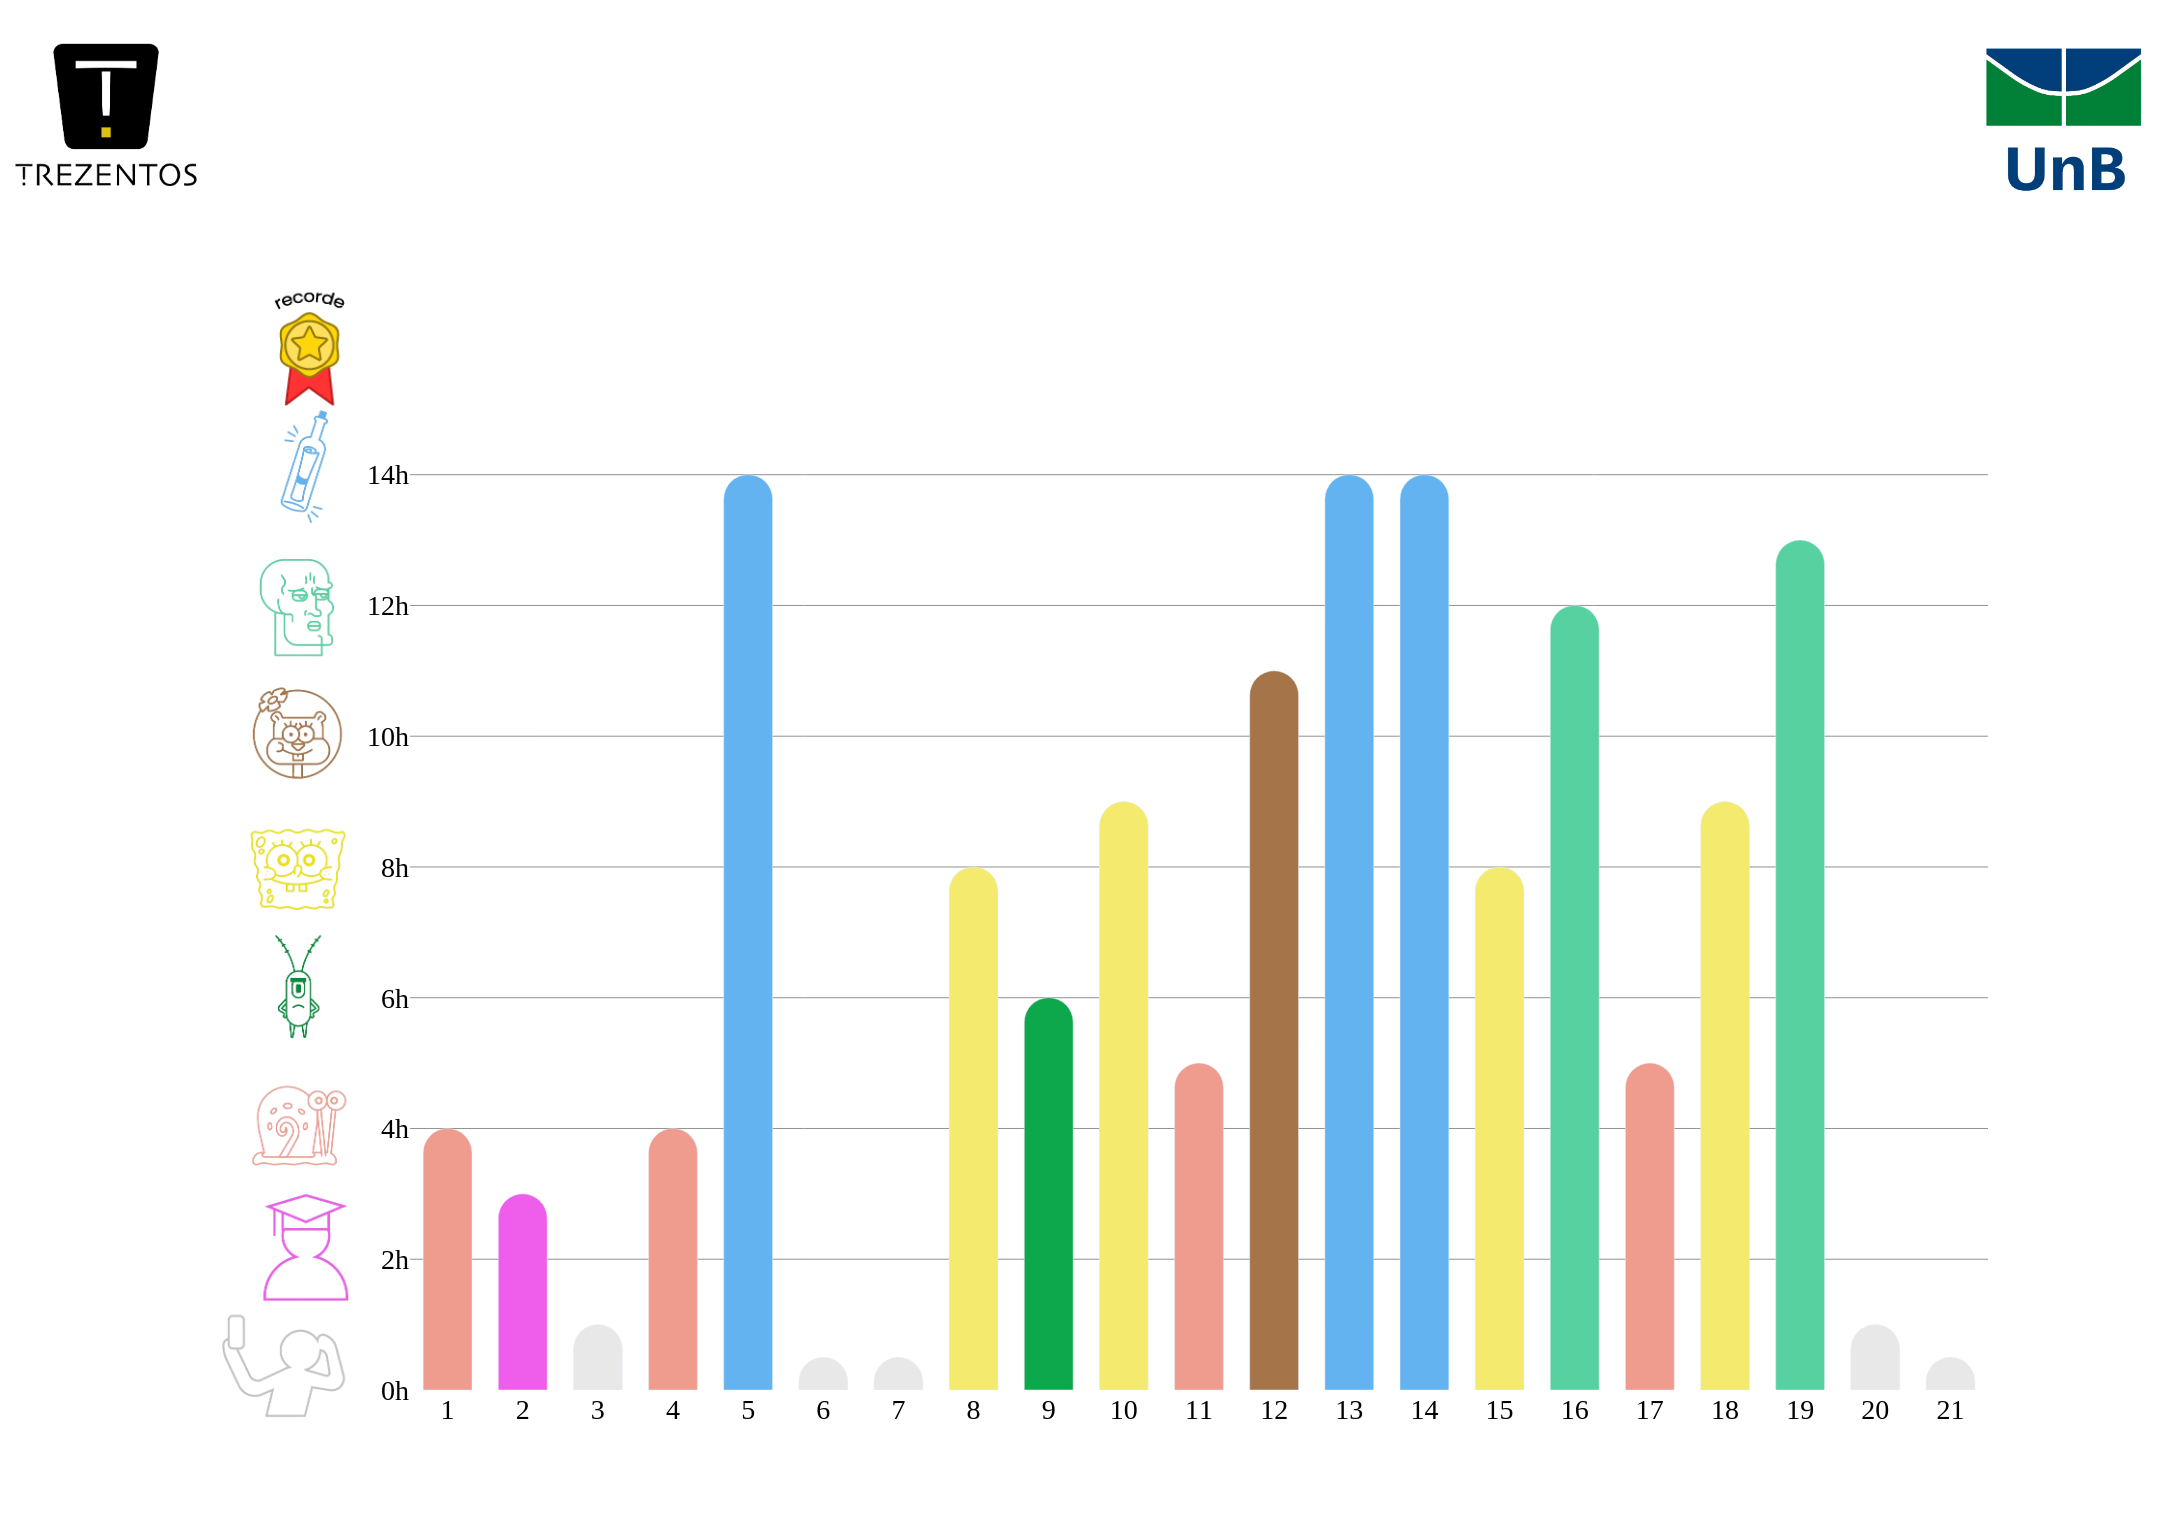
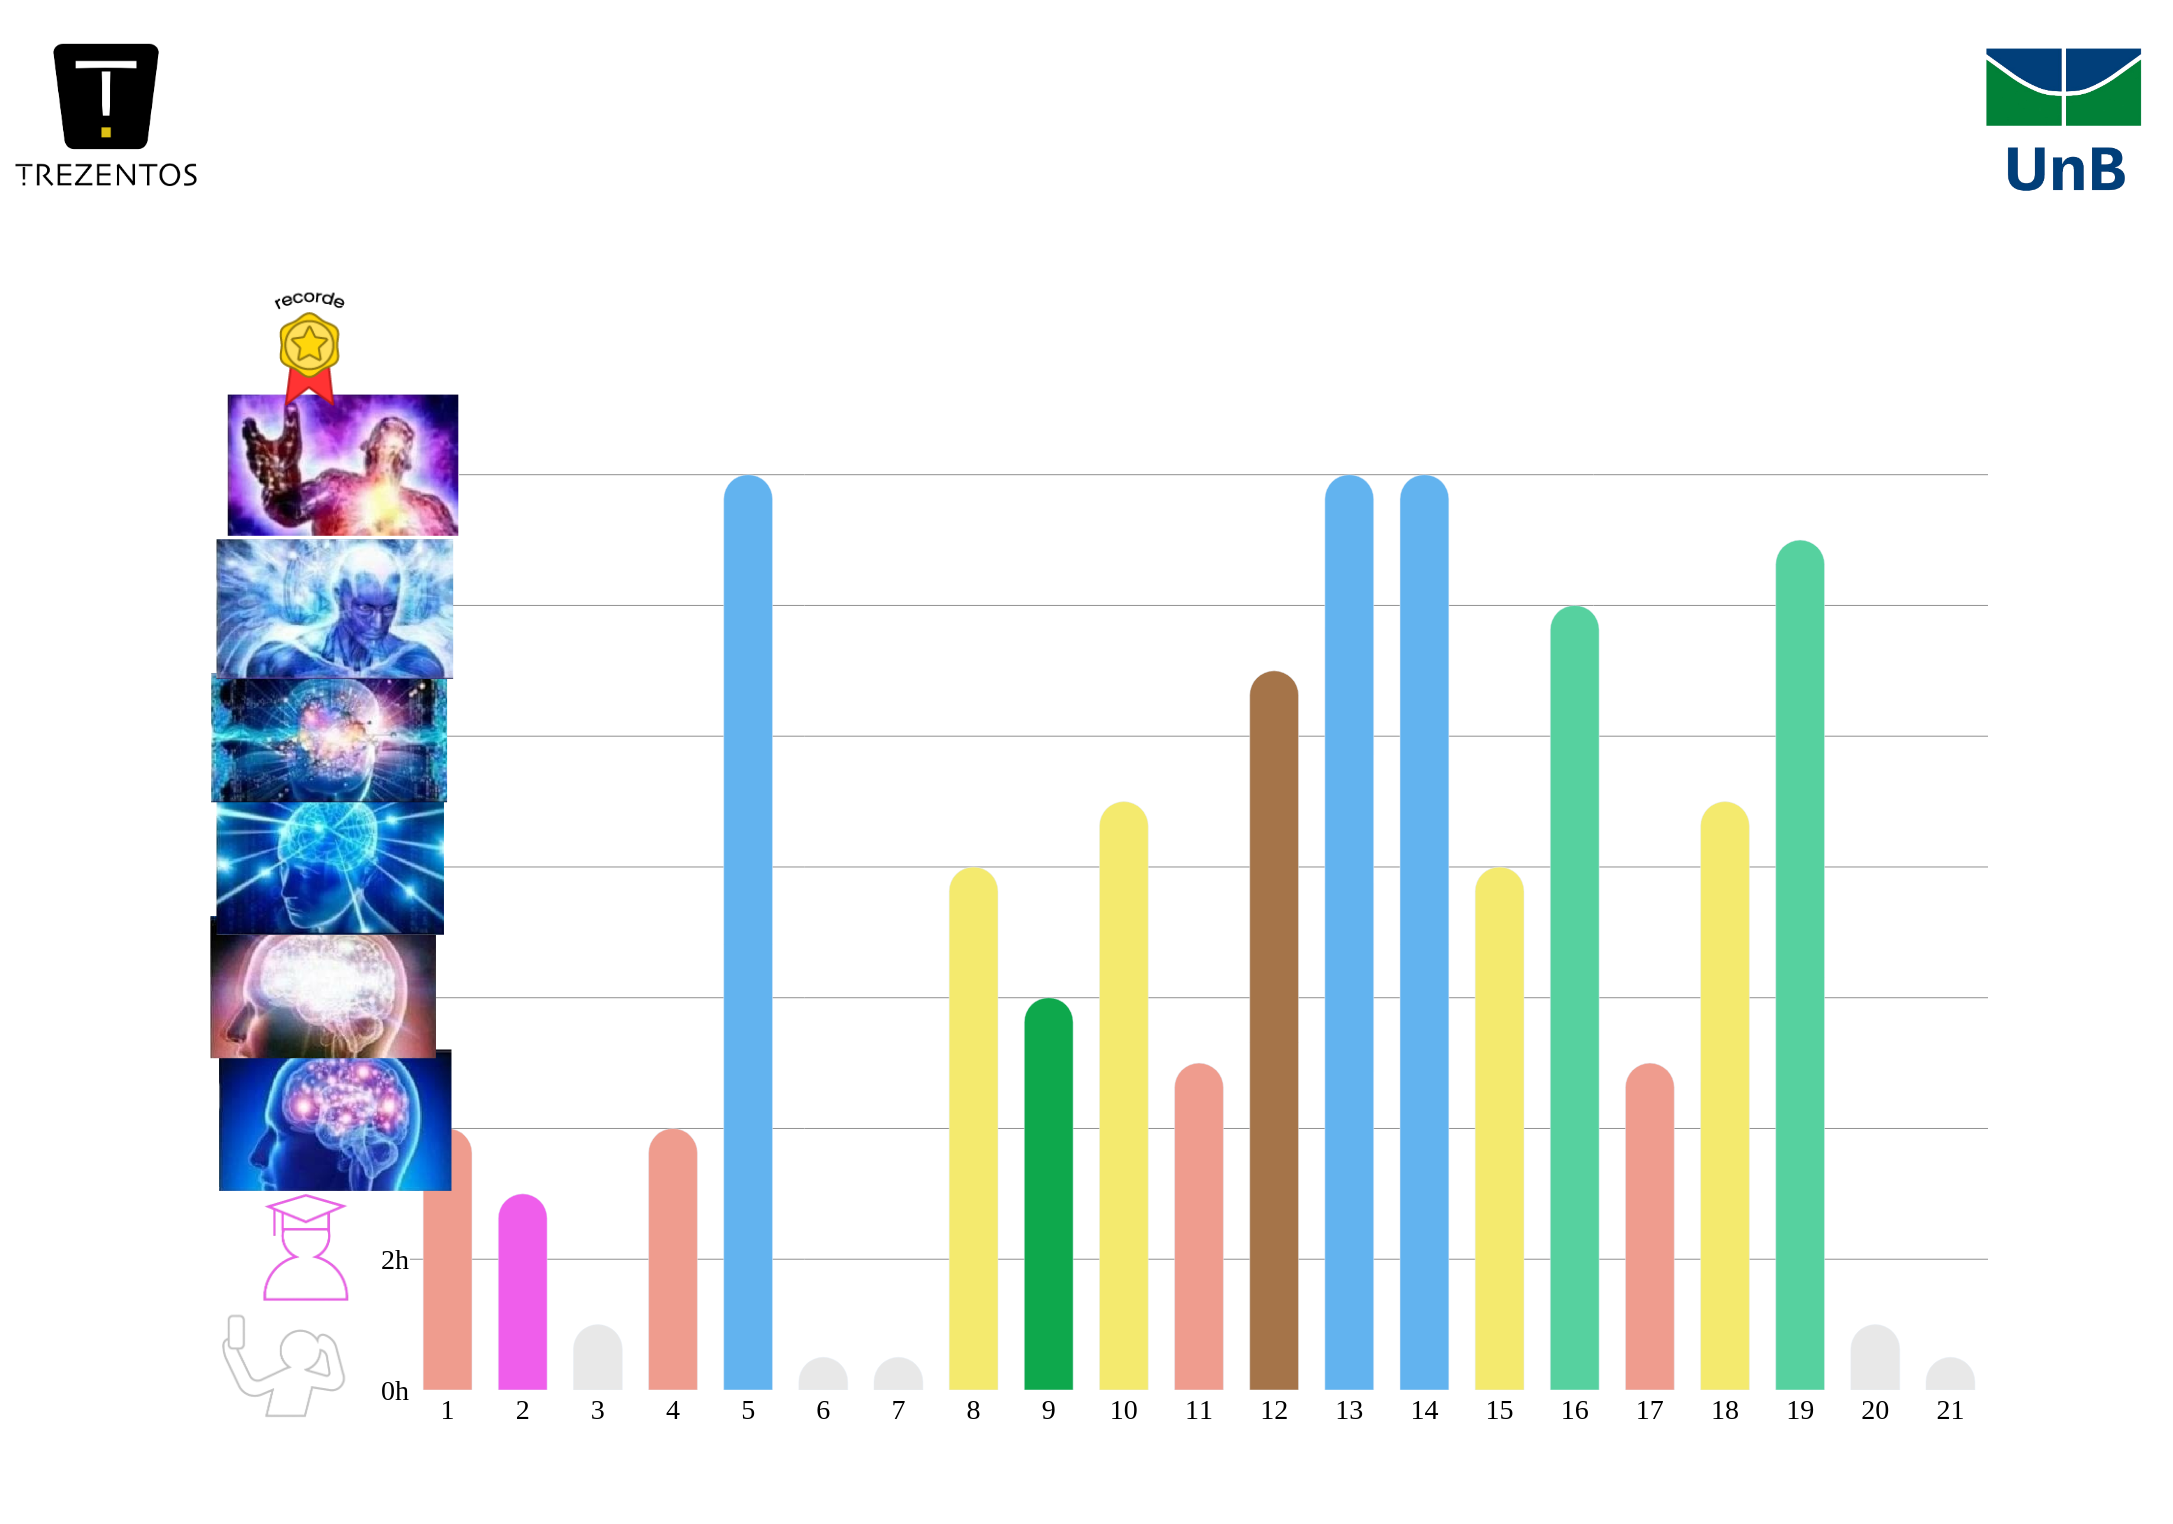
adicionando ultima versao

Changed region(s): [[0.0925, 0.2467, 0.2158, 0.8018]]

diff --git a/gerador_mente_superior/gerando_grafico_base.py b/gerador_mente_superior/gerando_grafico_base.py
@@ -89,14 +89,14 @@ fig.update_layout(
 current_directory = os.path.dirname(os.path.abspath(__file__))
 
 # Constrói os caminhos relativos à pasta "bob_esponja"
-path_imagem_0hour = os.path.join(current_directory, 'Bob_esponja_assets', '0hours.png')
-path_imagem_2hour = os.path.join(current_directory, 'Bob_esponja_assets', '2hours.png')
-path_imagem_4hour = os.path.join(current_directory, 'Bob_esponja_assets', '4hours.png')
-path_imagem_6hour = os.path.join(current_directory, 'Bob_esponja_assets', '6hours.png')
-path_imagem_8hour = os.path.join(current_directory, 'Bob_esponja_assets', '8hours.png')
-path_imagem_10hour = os.path.join(current_directory, 'Bob_esponja_assets', '10hours.png')
-path_imagem_12hour = os.path.join(current_directory, 'Bob_esponja_assets', '12hours.png')
-path_imagem_14hour = os.path.join(current_directory, 'Bob_esponja_assets', '14hours.png')
+path_imagem_0hour = os.path.join(current_directory, 'Mente_superior_assets', '0hours.png')
+path_imagem_2hour = os.path.join(current_directory, 'Mente_superior_assets', '2hours.png')
+path_imagem_4hour = os.path.join(current_directory, 'Mente_superior_assets', '4hours.png')
+path_imagem_6hour = os.path.join(current_directory, 'Mente_superior_assets', '6hours.png')
+path_imagem_8hour = os.path.join(current_directory, 'Mente_superior_assets', '8hours.png')
+path_imagem_10hour = os.path.join(current_directory, 'Mente_superior_assets', '10hours.png')
+path_imagem_12hour = os.path.join(current_directory, 'Mente_superior_assets', '12hours.png')
+path_imagem_14hour = os.path.join(current_directory, 'Mente_superior_assets', '14hours.png')
 
 path_medalha = os.path.join(current_directory, 'demais_assets', 'medalha.png')
 path_imagem_logounb = os.path.join(current_directory, 'demais_assets', 'logo_unb.png')
@@ -134,6 +134,5 @@ for imagem_url, x, y in imagens:
     )
 
 # Salvar a imagem
-if not os.path.exists("images"):
-    os.mkdir("images")
+
 fig.write_image(os.path.join(current_dir, 'images', 'base_graf.png'))

diff --git a/gerador_bob_esponja/backside_media_generator.py b/gerador_bob_esponja/backside_media_generator.py
@@ -21,7 +21,6 @@ fig1.update_layout(
     height=1040,
 )
 
-if not os.path.exists("images"):
-    os.mkdir("images")
+
 fig1.write_image(os.path.join(current_dir, 'images', 'backside_media_graf.png'))
 #fig1.show()

diff --git a/gerador_mente_superior/backside_media_generator.py b/gerador_mente_superior/backside_media_generator.py
@@ -21,7 +21,6 @@ fig1.update_layout(
     height=1040,
 )
 
-if not os.path.exists("images"):
-    os.mkdir("images")
+
 fig1.write_image(os.path.join(current_dir, 'images', 'backside_media_graf.png'))
 #fig1.show()

diff --git a/gerador_bob_esponja/backside_dias_generator.py b/gerador_bob_esponja/backside_dias_generator.py
@@ -21,7 +21,6 @@ fig1.update_layout(
     height=400,
 )
 
-if not os.path.exists("images"):
-    os.mkdir("images")
+
 fig1.write_image(os.path.join(current_dir, 'images', 'backside_dias_graf.png'))
 #fig1.show()

diff --git a/gerador_mente_superior/backside_dias_generator.py b/gerador_mente_superior/backside_dias_generator.py
@@ -21,7 +21,5 @@ fig1.update_layout(
     height=400,
 )
 
-if not os.path.exists("images"):
-    os.mkdir("images")
 fig1.write_image(os.path.join(current_dir, 'images', 'backside_dias_graf.png'))
 #fig1.show()

diff --git a/gerador_bob_esponja/gerando_grafico_base.py b/gerador_bob_esponja/gerando_grafico_base.py
@@ -134,6 +134,4 @@ for imagem_url, x, y in imagens:
     )
 
 # Salvar a imagem
-if not os.path.exists("images"):
-    os.mkdir("images")
 fig.write_image(os.path.join(current_dir, 'images', 'base_graf.png'))

diff --git a/gerador_bob_esponja/gerando_grafico_media_turma.py b/gerador_bob_esponja/gerando_grafico_media_turma.py
@@ -21,7 +21,6 @@ fig1.update_layout(
     height=1040,
 )
 
-if not os.path.exists("images"):
-    os.mkdir("images")
+
 fig1.write_image(os.path.join(current_dir, 'images', 'media_graf.png'))
 #fig1.show()

diff --git a/gerador_mente_superior/gerando_grafico_media_turma.py b/gerador_mente_superior/gerando_grafico_media_turma.py
@@ -21,7 +21,6 @@ fig1.update_layout(
     height=1040,
 )
 
-if not os.path.exists("images"):
-    os.mkdir("images")
+
 fig1.write_image(os.path.join(current_dir, 'images', 'media_graf.png'))
 #fig1.show()

diff --git a/gerador_bob_esponja/gerando_gráfico_dias.py b/gerador_bob_esponja/gerando_gráfico_dias.py
@@ -21,7 +21,6 @@ fig1.update_layout(
     height=400,
 )
 
-if not os.path.exists("images"):
-    os.mkdir("images")
+
 fig1.write_image(os.path.join(current_dir, 'images', 'dias_graf.png'))
 #fig1.show()

diff --git a/gerador_mente_superior/gerando_gráfico_dias.py b/gerador_mente_superior/gerando_gráfico_dias.py
@@ -21,7 +21,6 @@ fig1.update_layout(
     height=400,
 )
 
-if not os.path.exists("images"):
-    os.mkdir("images")
+
 fig1.write_image(os.path.join(current_dir, 'images', 'dias_graf.png'))
 #fig1.show()
